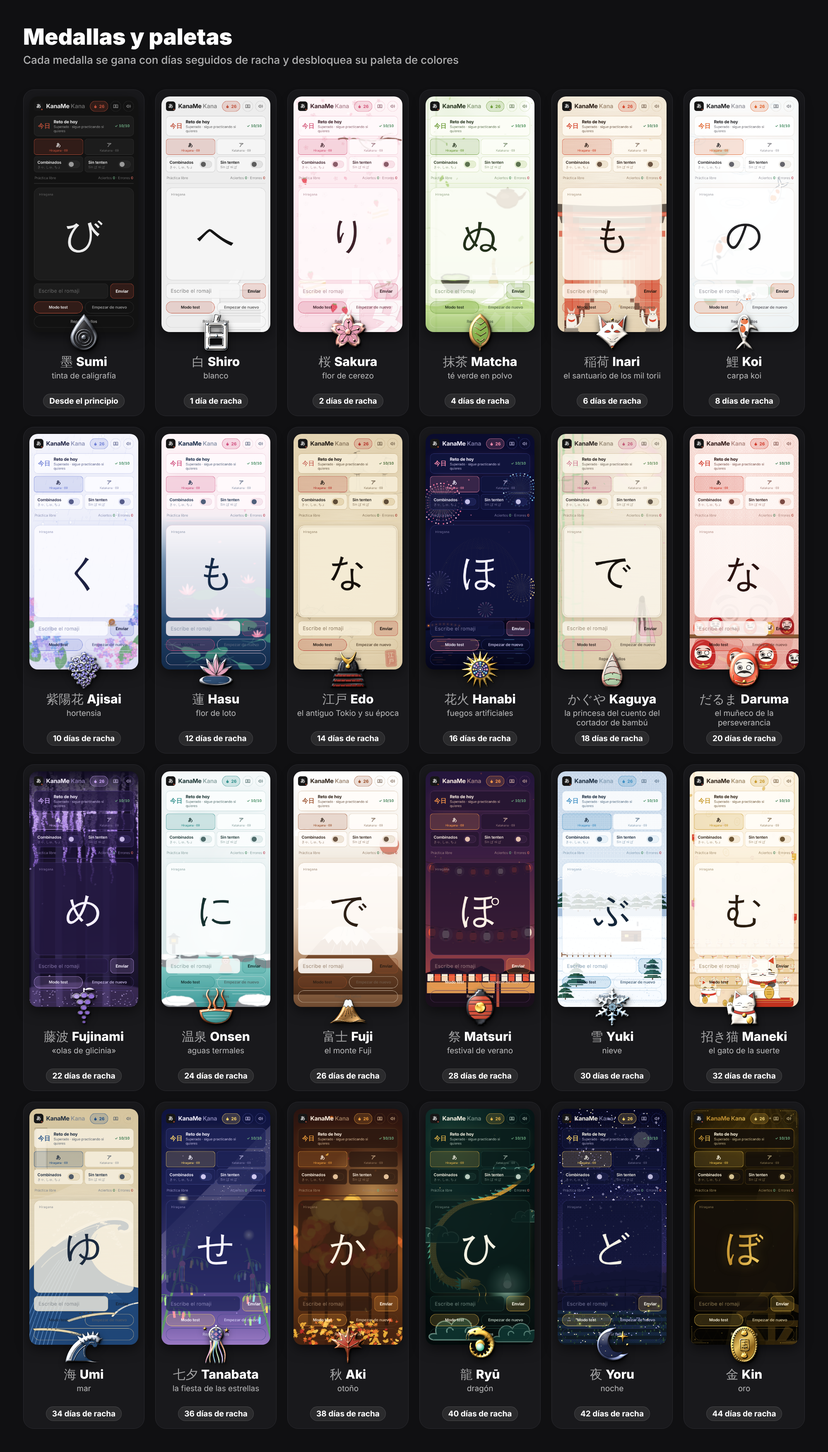
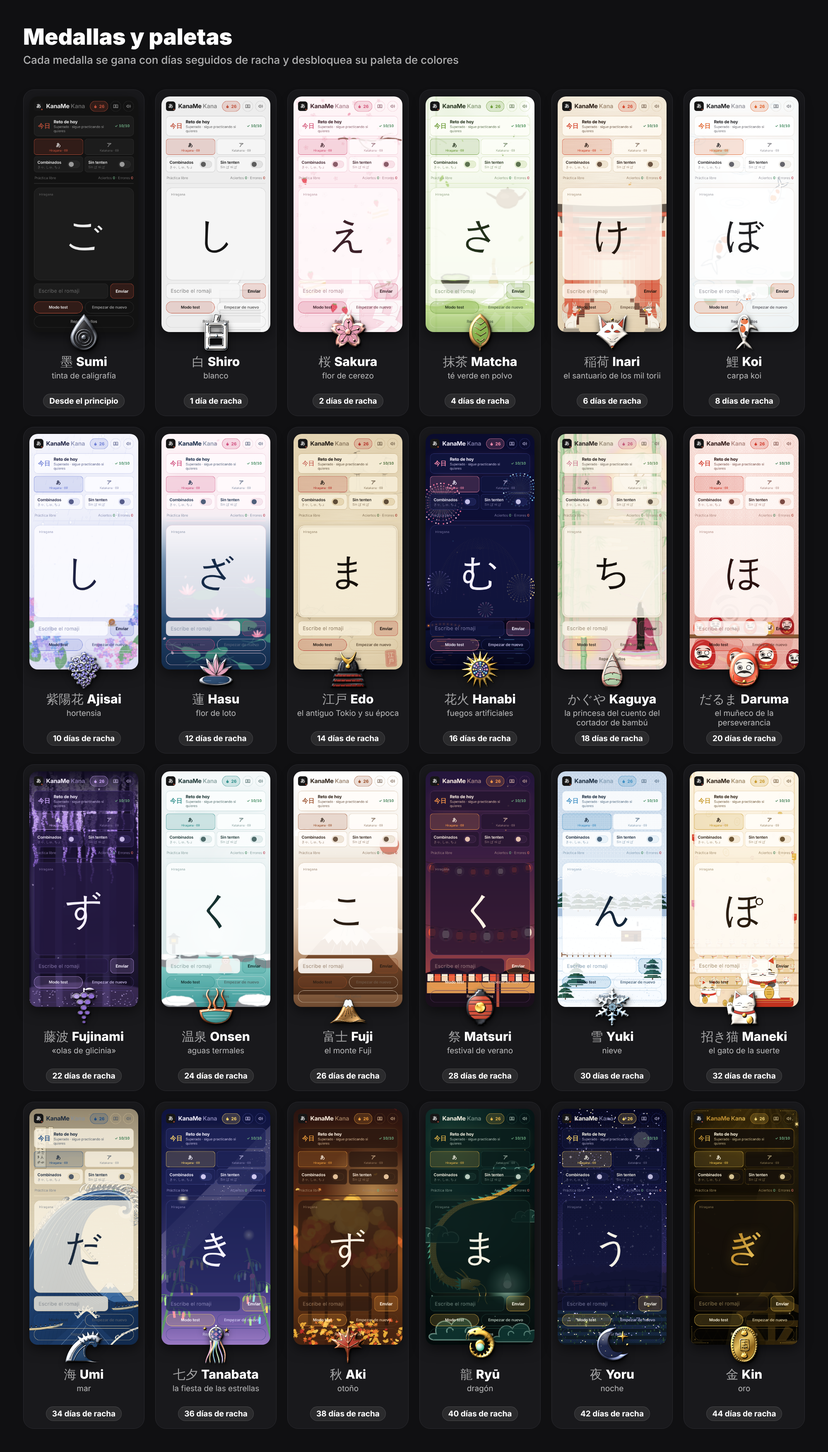
Inari, Kaguya y Umi: zorros kitsune, cuento de Kaguya y la gran ola de Hokusai redibujados

diff --git a/index.html b/index.html
@@ -216,57 +216,154 @@
     s += lotusFlower(96, 585, 1.25) + lotusFlower(318, 545, 1.05) + lotusFlower(206, 676, 1.45) + lotusFlower(352, 742, .9) + '</g>';
     return svg(s, 400, 860);
   }
-  // Kaguya: luna, bambú y la princesa, a lápiz y acuarela pastel sobre washi
+  // Kaguya: el cuento del cortador de bambú. Luna llena con su conejo, bosque de bambú a la acuarela,
+  // el tallo que brilla donde apareció la princesa y Kaguya-hime subiendo a la luna sobre una nube,
+  // con su kimono de capas (jūnihitoe) y el manto de plumas celestial ondeando.
   function kaguyaScene() {
-    var r = seeded(21), s = '<defs>' + WC + '<radialGradient id="mo"><stop offset="0" stop-color="#fffaf0"/><stop offset=".55" stop-color="#fbf0dc"/><stop offset=".8" stop-color="#f7d9e2" stop-opacity=".6"/><stop offset="1" stop-color="#f7d9e2" stop-opacity="0"/></radialGradient></defs>' +
-      '<circle cx="300" cy="120" r="96" fill="url(#mo)"/><circle cx="300" cy="120" r="56" fill="none" stroke="#c9b9a0" stroke-opacity=".5" stroke-width="1.2" filter="url(#sk)"/>';
-    // bambú
-    s += '<g filter="url(#wc)">';
-    [[22, 9, 0], [58, 7, 1], [92, 6, 2], [8, 5, 3]].forEach(function (b) {
-      s += '<path d="M' + b[0] + ' 0V860" stroke="#b9dcb0" stroke-opacity=".75" stroke-width="' + b[1] + '"/>';
-      for (var y = 60 + b[2] * 37; y < 860; y += 110) s += '<path d="M' + (b[0] - b[1] * .7) + ' ' + y + 'H' + (b[0] + b[1] * .7) + '" stroke="#8fbf86" stroke-opacity=".8" stroke-width="2"/>';
-      for (var k = 0; k < 4; k++) { var ly = 80 + r() * 700, dir = r() > .5 ? 1 : -1; s += '<path d="M' + b[0] + ' ' + ly.toFixed(0) + 'q' + (dir * 22) + ' -6 ' + (dir * 44) + ' 6q' + (-dir * 22) + ' 2 ' + (-dir * 44) + ' -6Z" fill="#a8d29e" fill-opacity=".7"/>'; }
-    });
-    s += '</g>';
-    // la princesa, de espaldas mirando la luna
-    s += '<g transform="translate(262 590) scale(.82)" opacity=".85"><g filter="url(#wc)">' +
-      '<path d="M40 70C20 90 8 120 2 150 14 140 26 120 40 104ZM74 70C94 90 106 120 112 150 100 140 88 120 74 104Z" fill="#f4c3d0" fill-opacity=".7"/>' +
-      '<path d="M40 40C26 70 18 130 6 210H118C104 140 92 80 74 40Z" fill="#f4c3d0" fill-opacity=".85"/>' +
-      '<path d="M44 46C36 90 32 150 30 210H96C92 150 86 96 72 46Z" fill="#c9e3bf" fill-opacity=".75"/>' +
-      '<path d="M50 50C46 100 46 160 50 210H78C78 160 74 100 66 50Z" fill="#f7dbe2" fill-opacity=".9"/>' +
-      '<path d="M46 22C42 60 40 110 44 170 52 140 55 100 58 60 61 100 64 140 72 170 76 110 74 60 70 22Z" fill="#2a2420" fill-opacity=".7"/>' +
-      '<ellipse cx="58" cy="16" rx="13" ry="15" fill="#2a2420" fill-opacity=".88"/></g>' +
-      '<g filter="url(#sk)" fill="none" stroke="#3a302a" stroke-opacity=".55" stroke-width="1.1"><path d="M40 40C26 70 18 130 6 210M74 40C92 80 104 140 118 210M44 46C36 90 32 150 30 210M72 46C86 96 92 150 96 210M6 210H118"/></g></g>';
-    // pétalos y destellos
-    for (var p = 0; p < 14; p++) s += '<circle cx="' + (140 + r() * 250).toFixed(0) + '" cy="' + (220 + r() * 300).toFixed(0) + '" r="' + (1 + r() * 2).toFixed(1) + '" fill="' + (r() > .5 ? "#f4b8c8" : "#f6e3a6") + '" fill-opacity=".8"/>';
+    var r = seeded(21);
+    var s = '<defs>' + WC +
+      '<radialGradient id="mo"><stop offset="0" stop-color="#fffdf6"/><stop offset=".5" stop-color="#fdf3df"/><stop offset=".72" stop-color="#f9e4c8" stop-opacity=".9"/><stop offset=".86" stop-color="#f6d3dc" stop-opacity=".45"/><stop offset="1" stop-color="#f6d3dc" stop-opacity="0"/></radialGradient>' +
+      '<radialGradient id="gl"><stop offset="0" stop-color="#fff6c8"/><stop offset=".35" stop-color="#ffe79a" stop-opacity=".75"/><stop offset="1" stop-color="#ffe79a" stop-opacity="0"/></radialGradient>' +
+      '<linearGradient id="bb" x1="0" y1="0" x2="1" y2="0"><stop offset="0" stop-color="#7fb27a"/><stop offset=".35" stop-color="#b9dcb0"/><stop offset=".7" stop-color="#9cc993"/><stop offset="1" stop-color="#6e9f6a"/></linearGradient>' +
+      '<linearGradient id="bf" x1="0" y1="0" x2="1" y2="0"><stop offset="0" stop-color="#a9c9a2"/><stop offset=".5" stop-color="#d3e8cc"/><stop offset="1" stop-color="#a2c49b"/></linearGradient>' +
+      '<linearGradient id="hz" x1="0" y1="0" x2="0" y2="1"><stop offset="0" stop-color="#f6e7ef" stop-opacity="0"/><stop offset="1" stop-color="#f3dbe4" stop-opacity=".7"/></linearGradient></defs>';
+    // luna llena con halo, manchas a la acuarela y el conejo que machaca mochi
+    s += '<circle cx="292" cy="150" r="150" fill="url(#mo)"/><circle cx="292" cy="150" r="66" fill="#fffaf0"/>' +
+      '<g filter="url(#wc)" fill="#eadcc4" fill-opacity=".55"><ellipse cx="270" cy="130" rx="18" ry="11"/><ellipse cx="312" cy="168" rx="14" ry="9"/><ellipse cx="300" cy="118" rx="8" ry="6"/></g>' +
+      '<g transform="translate(296 158) scale(.9)" fill="#d9c6a6" fill-opacity=".75"><ellipse cx="0" cy="8" rx="14" ry="11"/><circle cx="-12" cy="-4" r="7.5"/><path d="M-14 -10C-20 -26 -16 -32 -12 -30 -9 -24 -10 -16 -11 -10ZM-9 -10C-8 -26 -2 -30 1 -27 1 -20 -4 -14 -7 -9Z"/>' +
+      '<path d="M8 2L22 -14 25 -11 11 4Z"/><path d="M14 18H34L31 28H17Z"/><ellipse cx="24" cy="17" rx="10" ry="3"/></g>' +
+      '<circle cx="292" cy="150" r="66" fill="none" stroke="#d8c6a8" stroke-opacity=".6" stroke-width="1.2" filter="url(#sk)"/>';
+    // nubes doradas que suben hacia la luna (el camino del cortejo celestial)
+    function kumo(x, y, sc, op) { // bruma dorada escalonada (suyari-gasumi)
+      return '<g transform="translate(' + x + ' ' + y + ') scale(' + sc + ')" opacity="' + op + '" fill="#fff6e6" fill-opacity=".85" stroke="#e0c27e" stroke-opacity=".7" stroke-width="1.1" filter="url(#wc)"><path d="M18 0H96A9 9 0 0 1 96 18H18A9 9 0 0 1 18 0Z"/><path d="M0 14H66A8 8 0 0 1 66 30H0A8 8 0 0 1 0 14Z"/><path d="M40 26H120A8 8 0 0 1 120 42H40A8 8 0 0 1 40 26Z"/></g>'; }
+    s += kumo(176, 300, .9, .75) + kumo(222, 236, .7, .6) + kumo(120, 380, 1.1, .8) + kumo(300, 330, .6, .55);
+    // bosque de bambú: cañas al fondo (pálidas) y delante (más intensas), con nudos y ramitas de hojas
+    function cane(x, w, grad, op, sd, tilt) {
+      var rr = seeded(sd), o = '<g opacity="' + op + '" transform="rotate(' + tilt + ' ' + x + ' 860)">';
+      o += '<rect x="' + f(x - w / 2) + '" y="-20" width="' + f(w) + '" height="900" fill="url(#' + grad + ')"/>';
+      for (var y = 30 + rr() * 90; y < 860; y += 90 + rr() * 50) o += '<path d="M' + f(x - w / 2 - 1) + ' ' + f(y) + 'H' + f(x + w / 2 + 1) + '" stroke="#4f7f4c" stroke-opacity=".7" stroke-width="2.2"/><path d="M' + f(x - w / 2) + ' ' + f(y + 3) + 'H' + f(x + w / 2) + '" stroke="#e6f3e0" stroke-opacity=".7" stroke-width="1"/>';
+      for (var k = 0; k < 4; k++) {
+        var ly = 60 + rr() * 640, dir = rr() > .5 ? 1 : -1, bx = x + dir * w / 2;
+        var tx = bx + dir * 30, ty = ly - 16;
+        o += '<path d="M' + f(bx) + ' ' + f(ly) + 'q' + (dir * 14) + ' -12 ' + (dir * 30) + ' -16" fill="none" stroke="#6e9f6a" stroke-width="1.3"/>';
+        for (var l = 0; l < 5; l++) { var la = (dir > 0 ? 0 : 180) + dir * (8 + l * 22 + rr() * 10); o += '<path d="M0 0C6 -3.2 22 -3.6 40 0 22 3.4 6 3 0 0Z" fill="' + (l % 2 ? "#7fb27a" : "#9fcf94") + '" transform="translate(' + f(tx) + ' ' + f(ty) + ') rotate(' + f(la) + ')"/><path d="M2 0H36" stroke="#5f8f5c" stroke-opacity=".45" stroke-width=".6" transform="translate(' + f(tx) + ' ' + f(ty) + ') rotate(' + f(la) + ')"/>'; }
+      }
+      return o + '</g>';
+    }
+    s += '<g filter="url(#wc)">' + cane(70, 9, "bf", .55, 3, 1) + cane(384, 10, "bf", .5, 5, -1) + cane(118, 6, "bf", .45, 7, -.5) + cane(340, 7, "bf", .45, 9, .6) + '</g>';
+    s += '<g filter="url(#wc)">' + cane(18, 15, "bb", .85, 11, 0) + cane(48, 11, "bb", .8, 13, 1.2) + cane(368, 13, "bb", .8, 15, -1) + '</g>';
+    // bruma rosada abajo
+    s += '<rect y="560" width="400" height="300" fill="url(#hz)"/>';
+    // el tallo cortado que brilla, donde el anciano encontró a la princesa
+    s += '<circle cx="96" cy="770" r="70" fill="url(#gl)"/><g filter="url(#wc)"><rect x="86" y="742" width="20" height="130" fill="url(#bb)"/><path d="M86 742L106 734V742Z" fill="#cfe6c6"/><ellipse cx="96" cy="740" rx="10" ry="3.6" fill="#fff4c0"/></g>' +
+      '<path d="M90 812H102" stroke="#4f7f4c" stroke-width="2"/><g fill="#fff6c8">' + [[80, 720], [112, 712], [96, 700], [70, 744], [124, 738]].map(function (p) { return '<path d="' + star(4, 5, 1.2, p[0], p[1], 0) + '"/>'; }).join("") + '</g>';
+    // Kaguya-hime de pie sobre una nube, mirando a la luna, con el manto de plumas al viento
+    s += kumo(196, 784, 1.5, .95);
+    var veil = ribbon(curvePts(function (t) { return [40 + t * 150 - Math.sin(t * 5) * 18, 30 - t * 210 + Math.sin(t * 7) * 10]; }, 40), function (t) { return 9 * (1 - t * .7); });
+    var veil2 = ribbon(curvePts(function (t) { return [86 - t * 120 + Math.sin(t * 6) * 10, 50 - t * 120 - Math.sin(t * 5) * 14]; }, 40), function (t) { return 7 * (1 - t * .7); });
+    s += '<g transform="translate(250 612) scale(.92)"><g filter="url(#wc)">' +
+      '<path d="' + veil + '" fill="#ffffff" fill-opacity=".85" stroke="#9fb9da" stroke-width="1"/><path d="' + veil2 + '" fill="#fbe3ea" fill-opacity=".9" stroke="#e2a6b8" stroke-width="1"/>' +
+      // cola del kimono extendida sobre la nube, con los bordes de las capas
+      '<path d="M30 70C22 120 6 170 -30 212 20 222 100 222 132 210 116 160 98 116 88 70Z" fill="#9c3550"/>' +
+      '<path d="M-30 212C20 222 100 222 132 210L130 204C98 214 24 214 -26 206Z" fill="#f2b8c8"/><path d="M-26 206C24 214 98 214 130 204L128 198C96 207 28 207 -22 200Z" fill="#c7e0bd"/><path d="M-22 200C28 207 96 207 128 198L126 193C94 201 32 201 -18 195Z" fill="#d9c6ef"/>' +
+      '<path d="M34 72C28 118 16 160 -8 194 30 200 92 200 122 190 108 150 94 112 84 72Z" fill="#c45a78"/>' +
+      '<g fill="#f6e3a6" fill-opacity=".85">' + [[30, 120], [56, 150], [84, 128], [20, 170], [70, 182], [100, 168], [48, 100], [92, 98]].map(function (p) { return '<g transform="translate(' + p[0] + ' ' + p[1] + ')">' + [0, 72, 144, 216, 288].map(function (a) { return '<ellipse cx="0" cy="-2.6" rx="1.4" ry="2.4" transform="rotate(' + a + ')"/>'; }).join("") + '</g>'; }).join("") + '</g>' +
+      // mangas largas colgando, con las capas asomando
+      '<path d="M36 60C20 74 8 100 6 136 18 142 32 138 40 120 44 100 44 80 40 64Z" fill="#a8405e"/><path d="M6 136C18 142 32 138 40 120L42 126C34 144 18 148 4 142Z" fill="#f2b8c8"/>' +
+      '<path d="M80 60C96 74 108 100 110 136 98 142 84 138 76 120 72 100 72 80 76 64Z" fill="#a8405e"/><path d="M110 136C98 142 84 138 76 120L74 126C82 144 98 148 112 142Z" fill="#f2b8c8"/>' +
+      // pelo largo y liso por la espalda
+      '<path d="M49 18C44 46 46 80 44 112 42 140 46 168 40 192 50 186 56 190 60 196 64 190 70 186 78 192 72 168 76 140 74 112 72 80 74 46 67 18Z" fill="#1f1a18"/><path d="M56 40C55 80 57 130 54 180M62 40C63 90 62 140 66 182" fill="none" stroke="#4a3e38" stroke-width=".8"/>' +
+      '<ellipse cx="58" cy="14" rx="11.5" ry="13" fill="#1f1a18"/><path d="M64 6C71 7 74 14 72 21 70 25 66 25 64 23Z" fill="#fbeee6"/>' +
+      '<path d="M50 4C54 -4 64 -5 69 1" fill="none" stroke="#c9a24a" stroke-width="1.6"/><circle cx="60" cy="-3" r="2.2" fill="#c9a24a"/><path d="M60 -1V8" stroke="#c9a24a" stroke-width=".8"/></g>' +
+      '<g filter="url(#sk)" fill="none" stroke="#3a302a" stroke-opacity=".45" stroke-width="1"><path d="M30 70C22 120 6 170 -30 212M88 70C98 116 116 160 132 210M36 60C20 74 8 100 6 136M80 60C96 74 108 100 110 136"/></g></g>';
+    // destellos y pétalos flotando
+    for (var p = 0; p < 22; p++) s += '<circle cx="' + (130 + r() * 260).toFixed(0) + '" cy="' + (200 + r() * 520).toFixed(0) + '" r="' + (1 + r() * 2.2).toFixed(1) + '" fill="' + (r() > .5 ? "#f4b8c8" : "#f6e3a6") + '" fill-opacity=".85"/>';
     return svg(s, 400, 860);
   }
-  // Umi: la gran ola de Hokusai, tal cual, sobre papel
+  // Umi: «La gran ola de Kanagawa» de Hokusai (1831), recompuesta en vertical:
+  // la ola gigante con su espuma en garras, el Fuji nevado en el seno, la ola pequeña delante,
+  // las tres barcas oshiokuri con sus remeros, la espuma cayendo como nieve y la cartela del título.
   function greatWave() {
-    var claws = "";
-    function claw(x, y, a, sz) { var c = Math.cos(a), s2 = Math.sin(a); claws += '<path transform="translate(' + x.toFixed(1) + ' ' + y.toFixed(1) + ') rotate(' + (a * 180 / Math.PI).toFixed(1) + ') scale(' + sz + ')" d="M0 0C4 -6 10 -8 16 -6 12 -5 10 -2 10 1 14 -3 19 -3 22 0 17 0 14 3 13 6 10 3 5 2 0 4Z"/>'; }
-    // espuma en forma de garras a lo largo de la cresta
-    for (var i = 0; i <= 16; i++) { var t = i / 16, x = 110 + t * 210, y = 250 - Math.sin(t * Math.PI) * 150 + t * 40; claw(x, y, -1.2 + t * 1.9, .9 + Math.sin(t * Math.PI) * .5); }
-    for (var j = 0; j < 7; j++) claw(306 + j * 6, 218 + j * 14, 1.2 + j * .15, .8);
-    var spray = ""; var r = seeded(4);
-    for (var k = 0; k < 70; k++) spray += '<circle cx="' + (120 + r() * 230).toFixed(0) + '" cy="' + (60 + r() * 200).toFixed(0) + '" r="' + (1.2 + r() * 2.4).toFixed(1) + '"/>';
-    var body = "M-20 860V560C10 470 50 380 110 300 170 220 240 160 300 150 350 142 380 168 378 200 376 226 350 236 334 222 322 210 328 192 342 192 318 176 282 184 258 214 226 256 220 330 246 400 270 466 330 520 420 540V860Z";
-    var stripes = "";
-    for (var s2 = 0; s2 < 9; s2++) stripes += '<path d="M' + (-10 + s2 * 14) + ' 860C' + (20 + s2 * 18) + ' ' + (700 - s2 * 30) + ' ' + (60 + s2 * 22) + ' ' + (520 - s2 * 26) + ' ' + (130 + s2 * 16) + ' ' + (380 - s2 * 18) + '" />';
-    return svg('<defs>' + WC + '</defs>' +
-      '<path d="M0 0H400V300C330 250 260 240 200 260S70 330 0 330Z" fill="#d9c9a2" fill-opacity=".55"/>' +
-      '<rect x="22" y="70" width="44" height="150" fill="#e8dcc0" stroke="#7a6a4a" stroke-width="1.2"/><rect x="26" y="74" width="36" height="142" fill="none" stroke="#7a6a4a" stroke-opacity=".5"/>' +
-      '<g transform="translate(-30 300) scale(1.08 .66)">' +
-      '<path d="M120 640L170 560 182 572 196 556 246 640Z" fill="#2b5486"/><path d="M170 560L176 566 182 572 189 566 196 556 186 572 180 578 174 572Z" fill="#f2ead8"/>' +
-      '<path d="' + body + '" fill="#1f4677"/>' +
-      '<g fill="none" stroke="#5f8cc0" stroke-width="3" stroke-opacity=".75">' + stripes + '</g>' +
-      '<path d="M112 300C172 222 240 164 300 154 348 146 374 170 372 198 370 222 350 230 338 220" fill="none" stroke="#f2ead8" stroke-width="15" stroke-linecap="round"/>' +
-      '<path d="M150 270C200 214 250 186 300 180M70 420C100 360 140 320 190 290" fill="none" stroke="#f2ead8" stroke-opacity=".55" stroke-width="4" stroke-linecap="round"/>' +
-      '<g fill="#f2ead8">' + claws + '</g><g fill="#f2ead8" fill-opacity=".9">' + spray + '</g>' +
-      '<path d="M262 600L292 556 299 562 306 552 314 560 344 600Z" fill="#2b5486"/><path d="M292 556L299 562 306 552 314 560 309 566 303 562 297 567Z" fill="#f2ead8"/>' +
-      '<path d="M300 860V700C320 640 360 600 400 590V860Z" fill="#1f4677"/><path d="M310 690C330 650 360 625 400 616" fill="none" stroke="#f2ead8" stroke-width="7" stroke-linecap="round"/>' +
-      '<g fill="#e3d4ad" stroke="#5a4a2a" stroke-width="1"><path d="M150 690C200 676 270 676 320 700L314 708C266 690 206 690 156 700Z" transform="rotate(-18 230 690)"/><path d="M40 770C90 756 160 756 210 780L204 788C156 770 96 770 46 780Z" transform="rotate(8 120 770)"/></g>' +
-      '<g fill="#3a3326"><circle cx="200" cy="676" r="2.6"/><circle cx="214" cy="672" r="2.6"/><circle cx="228" cy="670" r="2.6"/><circle cx="242" cy="670" r="2.6"/><circle cx="90" cy="760" r="2.6"/><circle cx="104" cy="760" r="2.6"/><circle cx="118" cy="761" r="2.6"/></g></g>', 400, 860);
+    var r = seeded(7), P = "#1b3a66", PD = "#112a4d", PL = "#3f6ea3", PX = "#8fb3d8", FO = "#f3ecda", INKL = "#0e2240";
+    function bz(p, t) { var u = 1 - t; return [u * u * u * p[0] + 3 * u * u * t * p[2] + 3 * u * t * t * p[4] + t * t * t * p[6], u * u * u * p[1] + 3 * u * u * t * p[3] + 3 * u * t * t * p[5] + t * t * t * p[7]]; }
+    function ang(p, t) { var a = bz(p, Math.max(0, t - .01)), b = bz(p, Math.min(1, t + .01)); return Math.atan2(b[1] - a[1], b[0] - a[0]); }
+    // Garra de espuma: un dedo que se curva hacia abajo y se abre en tres puntas en gancho (fractal sencillo)
+    function finger(x, y, a, L, w, bend, depth) {
+      var pts = [[x, y]], n = 10, px = x, py = y;
+      for (var i = 1; i <= n; i++) { var d = a + bend * i / n; px += Math.cos(d) * L / n; py += Math.sin(d) * L / n; pts.push([px, py]); }
+      var o = '<path d="' + ribbon(pts, function (t) { return w * (1 - t * .6) * (t < .2 ? .55 + t * 2.25 : 1); }) + '"/>';
+      var ea = a + bend;
+      if (depth > 0) { for (var k = -1; k <= 1; k++) o += finger(px, py, ea + k * .6, L * .55, w * .5, bend * 1.05, depth - 1); }
+      else o += '<circle cx="' + f(px) + '" cy="' + f(py) + '" r="' + f(w * .4) + '"/>';
+      return o;
+    }
+    var s = '<defs>' +
+      '<linearGradient id="gsky" x1="0" y1="0" x2="0" y2="1"><stop offset="0" stop-color="#5d554a" stop-opacity=".55"/><stop offset=".25" stop-color="#8a7f6c" stop-opacity=".25"/><stop offset=".55" stop-color="#d9c9a2" stop-opacity="0"/></linearGradient>' +
+      '<linearGradient id="gw" x1="0" y1="0" x2="1" y2="1"><stop offset="0" stop-color="' + PL + '"/><stop offset=".45" stop-color="' + P + '"/><stop offset="1" stop-color="' + PD + '"/></linearGradient>' +
+      '<clipPath id="wcl"><path id="wb" d="M-20 870V560C10 470 60 390 130 340C190 298 260 280 320 292C365 302 392 336 380 372C372 392 350 398 338 386C328 374 336 360 348 362C320 346 270 346 238 372C200 404 182 470 190 540C198 610 240 670 300 700C340 718 380 722 420 716V870Z"/></clipPath></defs>';
+    // cielo: papel con nubes oscuras arriba
+    s += '<rect width="400" height="860" fill="url(#gsky)"/>' +
+      '<path d="M-10 250C60 236 120 246 180 236S300 222 410 236V180C330 170 260 186 200 176S60 196 -10 186Z" fill="#cdbb92" fill-opacity=".35"/>';
+    // cartela del título y firma (arriba a la izquierda, como en la estampa)
+    s += '<g transform="translate(22 66)"><rect width="40" height="150" fill="#e9dcbc" stroke="#6b5a3a" stroke-width="1.2"/><rect x="3" y="3" width="34" height="144" fill="none" stroke="#6b5a3a" stroke-opacity=".5"/>' +
+      '<g stroke="#3a3020" stroke-opacity=".7" stroke-width="1.8" stroke-linecap="round">';
+    for (var c = 0; c < 2; c++) for (var q = 0; q < 8; q++) { var cx = 13 + c * 14, cy = 12 + q * 16.5; var g2 = ''; for (var z = 0; z < 3; z++) { var zx = cx - 4 + r() * 8, zy = cy - 4 + r() * 8, za = r() * Math.PI; g2 += 'M' + f(zx - Math.cos(za) * 3.5) + ' ' + f(zy - Math.sin(za) * 3.5) + 'L' + f(zx + Math.cos(za) * 3.5) + ' ' + f(zy + Math.sin(za) * 3.5); } s += '<path d="' + g2 + '"/>'; }
+    s += '</g></g><g transform="translate(70 66)"><rect width="18" height="64" fill="#e9dcbc" stroke="#6b5a3a" stroke-width="1"/><path d="M9 8v48M5 16h8M5 30h8M5 44h8" stroke="#3a3020" stroke-opacity=".6" stroke-width="1.6"/></g>';
+    // el Fuji en el seno de la ola
+    s += '<g><path d="M226 704L284 638C290 631 300 631 306 638L364 704Z" fill="' + PL + '"/>' +
+      '<path d="M273 651L284 638C290 631 300 631 306 638L317 651 309 648 303 656 296 647 289 657 282 648Z" fill="#f6f1e4"/>' +
+      '<path d="M226 704L284 638" fill="none" stroke="' + INKL + '" stroke-width="1.2"/><path d="M306 638L364 704" fill="none" stroke="' + INKL + '" stroke-width="1.2"/>' +
+      '<path d="M250 690L278 668M262 696L290 664M318 664L340 690" stroke="' + PX + '" stroke-opacity=".6" stroke-width="1.2"/></g>';
+    // mar del fondo a la derecha
+    s += '<path d="M180 720C240 700 300 708 420 698V870H180Z" fill="' + P + '"/>';
+    // la gran ola
+    s += '<use href="#wb" fill="url(#gw)"/><g clip-path="url(#wcl)" fill="none" stroke-linecap="round">';
+    // vetas: copias de la silueta que convergen en el rizo, alternando azul claro y espuma
+    var CREST = "M-20 560C10 470 60 390 130 340C190 298 260 280 320 292C365 302 392 336 380 372C372 392 350 398 338 386";
+    var FACE = "M348 362C320 346 270 346 238 372C200 404 182 470 190 540C198 610 240 670 300 700";
+    for (var k = 1; k <= 12; k++) {
+      var sc = 1 - k * .055, col = k % 3 === 0 ? FO : PX, tr = 'translate(352 372) scale(' + f(sc) + ') translate(-352 -372)';
+      s += '<path d="' + CREST + '" transform="' + tr + '" stroke="' + col + '" stroke-opacity="' + (k % 3 === 0 ? .6 : .55) + '" stroke-width="' + f(2.8 - k * .13) + '"/>';
+    }
+    for (var k2 = 1; k2 <= 8; k2++) s += '<path d="' + FACE + '" transform="translate(' + (-k2 * 9) + ' ' + (k2 * 2) + ')" stroke="' + PX + '" stroke-opacity="' + f(.55 - k2 * .04) + '" stroke-width="1.6"/>';
+    // malla de líneas finas en el cuerpo
+    for (var m = 0; m < 26; m++) { var x0 = -20 + m * 14; s += '<path d="M' + x0 + ' 870C' + (x0 + 26) + ' 720 ' + (x0 + 70 + m * 3) + ' 540 ' + (130 + m * 8) + ' ' + (350 - m * 2) + '" stroke="' + PD + '" stroke-opacity=".35" stroke-width=".9"/>'; }
+    s += '</g>';
+    // cresta de espuma: banda blanca con borde azul
+    var C1 = [130, 340, 190, 298, 260, 280, 320, 292], C2 = [320, 292, 365, 302, 392, 336, 380, 372], C0 = [-20, 560, 10, 470, 60, 390, 130, 340];
+    s += '<path d="M40 430C70 390 100 360 130 340C190 298 260 280 320 292C365 302 392 336 380 372C372 392 350 398 338 386C328 374 336 360 348 362" fill="none" stroke="' + FO + '" stroke-width="15" stroke-linecap="round"/>' +
+      '<path d="M48 440C76 400 104 372 136 352C192 314 258 298 316 308C352 316 372 340 366 362" fill="none" stroke="' + PX + '" stroke-width="5" stroke-opacity=".9"/>';
+    // garras de espuma a lo largo de la cresta y colgando del labio
+    var claws = '';
+    for (var i = 0; i < 8; i++) { var t = .3 + i * .1, p = bz(C1, t), a = ang(C1, t) - 1.25; claws += finger(p[0], p[1] - 5, a, 36 + r() * 10, 9, 1.5, 2); }
+    for (var j = 0; j < 6; j++) { var t2 = .05 + j / 6, p2 = bz(C2, t2), a2 = ang(C2, t2) - 1.2; claws += finger(p2[0] + 4, p2[1], a2, 42 + r() * 10, 9.5, 1.4, 2); }
+    for (var b = 0; b < 7; b++) { var t3 = .35 + b * .1, p3 = bz(C0, t3), a3 = ang(C0, t3) - 1.3; claws += finger(p3[0] + 3, p3[1] - 3, a3, 22 + r() * 6, 8, 1.5, 2); }
+    s += '<g fill="' + FO + '" stroke="' + INKL + '" stroke-width=".5">' + claws + '</g>';
+    // espuma que cae como nieve sobre el Fuji
+    var spray = '';
+    for (var d = 0; d < 90; d++) { var sx = 250 + r() * 160, sy = 360 + r() * 290, rr = .8 + r() * 2.4; if (sx < 300 && sy < 420) continue; spray += '<circle cx="' + f(sx) + '" cy="' + f(sy) + '" r="' + f(rr) + '" fill-opacity="' + f(.5 + r() * .5) + '"/>'; }
+    s += '<g fill="' + FO + '">' + spray + '</g>';
+    // barcas oshiokuri con remeros
+    function boat(x, y, a, L) {
+      var o = '<g transform="translate(' + x + ' ' + y + ') rotate(' + a + ')"><path d="M0 0C' + (L * .3) + ' 6 ' + (L * .7) + ' 6 ' + L + ' -4L' + (L - 6) + ' 6C' + (L * .6) + ' 13 ' + (L * .3) + ' 13 6 8Z" fill="#e6d6ab" stroke="#5a4a2a" stroke-width="1"/>' +
+        '<path d="M8 6C' + (L * .35) + ' 10 ' + (L * .65) + ' 10 ' + (L - 8) + ' 3" fill="none" stroke="#5a4a2a" stroke-opacity=".6" stroke-width=".8"/>';
+      for (var n = 0; n < 8; n++) { var bx = 16 + n * (L - 30) / 7; o += '<path d="M' + f(bx - 3) + ' 2Q' + f(bx) + ' -6 ' + f(bx + 3) + ' 2Z" fill="#2c4a74"/><circle cx="' + f(bx) + '" cy="-4" r="2.2" fill="#1d1712"/><path d="M' + f(bx - 2) + ' -1h4" stroke="#f3ecda" stroke-width="1.2"/>'; }
+      return o + '</g>';
+    }
+    s += boat(176, 470, 52, 130) + boat(300, 726, -8, 120);
+    // la ola pequeña de delante, con la forma del Fuji
+    s += '<path d="M60 870C100 840 150 800 188 752C198 738 214 730 228 738C236 744 232 754 224 752C252 790 296 836 340 870Z" fill="' + P + '"/>' +
+      '<g fill="none" stroke="' + PX + '" stroke-opacity=".6" stroke-width="1.6"><path d="M110 868C140 836 170 804 200 768M150 868C172 842 192 816 208 790M300 868C276 840 252 812 230 786"/></g>' +
+      '<path d="M178 760C190 748 200 736 210 734 220 734 232 748 244 760" fill="none" stroke="' + FO + '" stroke-width="8" stroke-linecap="round"/>';
+    var small = '';
+    for (var g = 0; g < 7; g++) { var gx = 180 + g * 10, gy = 758 - Math.sin(g / 6 * Math.PI) * 22; small += finger(gx, gy - 2, -Math.PI / 2 + (g - 3) * .42 - .6, 14, 5.5, 1.3, 1); }
+    s += '<g fill="' + FO + '" stroke="' + INKL + '" stroke-width=".4">' + small + '</g>';
+    s += boat(-24, 800, -6, 150);
+    // olas del primer plano a la derecha
+    s += '<path d="M290 870C316 832 352 806 396 794 410 790 420 796 420 800V870Z" fill="' + PD + '"/><path d="M300 860C328 828 360 808 400 798" fill="none" stroke="' + FO + '" stroke-width="6" stroke-linecap="round"/>';
+    var fr = ''; for (var h = 0; h < 5; h++) { var hx = 316 + h * 20, hy = 838 - h * 9; fr += finger(hx, hy, -1.9 + h * .1, 14, 5, 1.4, 1); }
+    s += '<g fill="' + FO + '" stroke="' + INKL + '" stroke-width=".4">' + fr + '</g>';
+    return svg(s, 400, 860);
   }
   // Aki: árboles otoñales, hojas de arce y de ginkgo en el suelo
   var GINKGO_D = "M12 22C12 18 11.5 15 12 13 8 13 3 10 1.5 5 5 2 9 1.5 12 4 15 1.5 19 2 22.5 5 21 10 16 13 12 13 12.5 15 12 18 12 22Z";
@@ -770,11 +867,28 @@
     return k + '</g>';
   }
   function kitsune(x, y, sc, flip) {
-    return '<g transform="translate(' + x + ' ' + y + ') scale(' + (flip ? -sc : sc) + ' ' + sc + ')">' +
-      '<path d="M-14 0V-6Q-16 -30 -8 -40L-12 -56 -3 -46Q0 -47 3 -46L10 -56 7 -40Q16 -30 14 -6V0Z" fill="#f4efe6" stroke="#c9bba5" stroke-width="1"/>' +
-      '<path d="M8 -6Q26 -10 24 -34Q22 -44 28 -50Q34 -42 30 -28Q28 -8 10 0Z" fill="#f4efe6" stroke="#c9bba5" stroke-width="1"/>' +
-      '<path d="M-10 -26Q0 -18 10 -26L8 -20Q0 -14 -8 -20Z" fill="#d9452b"/><circle cx="-4" cy="-38" r="1.1" fill="#1d1712"/><circle cx="4" cy="-38" r="1.1" fill="#1d1712"/>' +
-      '<rect x="-18" y="0" width="36" height="8" fill="#9a8f80"/><rect x="-21" y="8" width="42" height="12" fill="#857a6b"/></g>';
+    // zorro de piedra de Inari sentado de perfil: cola tupida hacia arriba, babero rojo y la joya en la boca
+    var W = "#f6f1e7", L = "#d6c9b2", S = "#e6dccb";
+    return '<g transform="translate(' + x + ' ' + y + ') scale(' + (flip ? -sc : sc) + ' ' + sc + ')" stroke-linejoin="round" stroke-linecap="round">' +
+      // cola
+      '<path d="M-9 -9C-24 -12 -30 -30 -24 -46 -21 -54 -16 -60 -9 -68 -9 -60 -7 -54 -10 -46 -14 -36 -12 -24 -3 -18Z" fill="' + S + '" stroke="' + L + '" stroke-width="1"/>' +
+      '<path d="M-9 -68C-12 -62 -14 -58 -13 -52 -11 -57 -9 -62 -9 -68Z" fill="#fff"/><path d="M-20 -24C-23 -32 -22 -40 -18 -47M-15 -22C-17 -30 -16 -38 -13 -44" fill="none" stroke="' + L + '" stroke-width=".8"/>' +
+      // cuerpo sentado
+      '<path d="M-15 0C-20 -8 -18 -21 -7 -27 -2 -30 1 -36 3 -44L13 -46C15 -37 15 -28 13 -20L13 0Z" fill="' + W + '" stroke="' + L + '" stroke-width="1"/>' +
+      '<path d="M-13 -1C-13 -10 -7 -17 1 -15" fill="none" stroke="' + L + '" stroke-width="1"/>' +
+      '<path d="M7 -20V-1M7 -1H14" fill="none" stroke="' + L + '" stroke-width="1"/><path d="M-15 0H15" stroke="' + L + '" stroke-width="1"/>' +
+      // cabeza: hocico largo hacia delante y orejas altas
+      '<path d="M2 -51C3 -58 10 -61 15 -59L27 -53C29 -52 29 -49.5 26.5 -49.5L15 -47.5C10 -45 4 -46 2 -51Z" fill="' + W + '" stroke="' + L + '" stroke-width="1"/>' +
+      '<path d="M3.5 -56L2.5 -71 10.5 -60ZM8 -59.5L10 -72 14 -59.5Z" fill="' + W + '" stroke="' + L + '" stroke-width="1"/>' +
+      '<path d="M4.5 -59L4 -67 8 -60.5ZM9.5 -60L10.6 -68 12.6 -60Z" fill="#d9452b" fill-opacity=".75"/>' +
+      '<path d="M12.5 -55.2Q15 -55.8 17.5 -54" fill="none" stroke="#1d1712" stroke-width="1.1"/><path d="M12 -54Q15 -53.4 18 -53" fill="none" stroke="#d9452b" stroke-width=".7"/>' +
+      '<circle cx="27.4" cy="-51" r="1.2" fill="#1d1712"/>' +
+      // joya (hōju) en la boca
+      '<path d="M18 -48C18 -44 24 -44 24 -48 24 -50 22 -52 21 -53.5 20 -52 18 -50 18 -48Z" fill="#e8b84a" stroke="#8a611a" stroke-width=".6"/>' +
+      // babero rojo
+      '<path d="M2.5 -42C6 -40 11 -40.5 14 -43.5L12.5 -33C10 -31 6 -32 2.5 -42Z" fill="#d9452b"/><path d="M3.5 -41.2C7 -39.4 11 -39.8 13.6 -42.4" fill="none" stroke="#a8301c" stroke-width=".8"/>' +
+      // pedestal de piedra
+      '<rect x="-22" y="0" width="42" height="7" fill="#a39886"/><rect x="-25" y="7" width="48" height="14" fill="#8b806f"/><path d="M-22 1H20M-25 8H23" stroke="#c4baa8" stroke-width="1"/></g>';
   }
   function inariScene() {
     var s = '';

diff --git a/sw.js b/sw.js
@@ -1,7 +1,7 @@
 /* KanaMe Kana service worker — permite usar la app sin conexión.
    Estrategia "red primero": si hay internet siempre carga la última versión;
    si no, usa la copia guardada. Sube VERSION al publicar cambios grandes. */
-const VERSION = "kaname-kana-v18";
+const VERSION = "kaname-kana-v19";
 const CORE = ["./", "index.html", "site.webmanifest", "icons/icon-192.png", "apple-touch-icon.png", "audio/correct.mp3", "audio/wrong.mp3"];
 
 self.addEventListener("install", (e) => {
